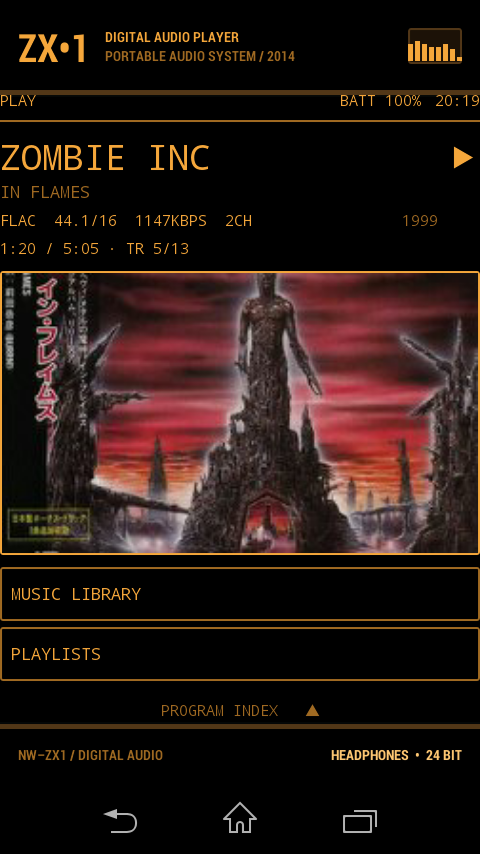
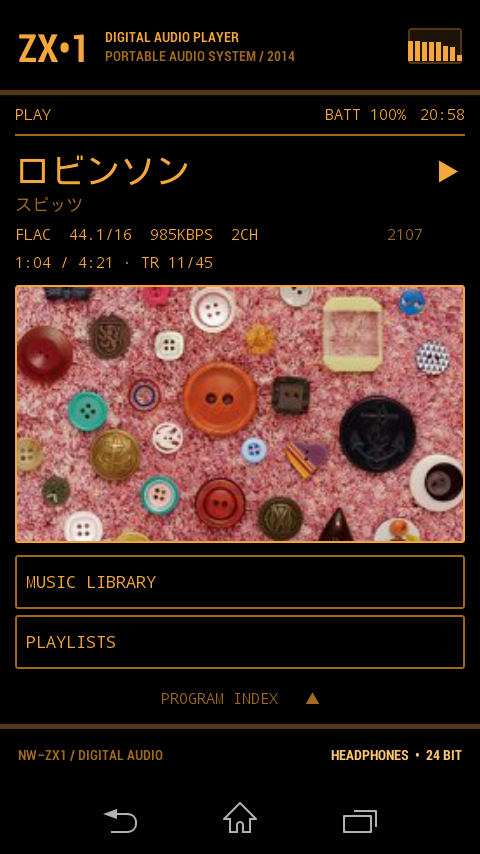
Keep the glass inset in Tube Amp, which setBackground was discarding
View.setBackgroundDrawable adopts a background's padding as the view's
own, and LayerDrawable.getPadding returns true unconditionally - whatever
its layers actually hold. lcd_frame builds its whole bezel from layer
insets, which are not padding, so the frame reported zero and was
believed.

Inflating never noticed: View(Context, AttributeSet) sets the background
first and applies the android:padding* attributes after it. But TUBE AMP
arrives later, from applySkin() on an already-inflated view, with nothing
behind it to restore the inset the layout asked for - so every
frame-backed panel lost its 10-18dp and sat flush against the bezel.

On the home glass the art panel is the weighted element, so it swelled
into the freed space while the status row and soft-keys slid out of
alignment, which read as an artwork-sizing bug rather than a padding one.
Measured against the LCD reference, the panel now returns to y 285/557
and x 15/465 exactly, and the status row, soft-keys and latch land back
on their LCD coordinates.

Fix is one LayerDrawable subclass that declines to report padding, so it
stays where both styles agree it belongs - the layout. Device-verified on
firmware 1.13 across all five screens; the LCD path is untouched, since
every frameBackground() call site sits behind an isLcd() early return.

Retakes the Tube Amp home screenshot on the same track as the LCD one.

diff --git a/app/src/main/java/com/github/postapczuk/lalauncher/Skin.java b/app/src/main/java/com/github/postapczuk/lalauncher/Skin.java
@@ -153,10 +153,44 @@ final class Skin {
         GradientDrawable glassPane = new GradientDrawable();
         glassPane.setColor(glass);
         glassPane.setStroke(dp(1), 0xFF050706);
-        LayerDrawable frame = new LayerDrawable(new Drawable[]{bezel, glassPane});
+        LayerDrawable frame = new Frame(new Drawable[]{bezel, glassPane});
         frame.setLayerInset(0, -dp(4), 0, -dp(4), 0);
         frame.setLayerInset(1, -dp(1), dp(3), -dp(1), dp(3));
         return frame;
+    }
+
+    /**
+     * The frame, declining to dictate padding.
+     *
+     * <p>{@code View.setBackgroundDrawable} adopts a background's padding as
+     * the view's own - {@code if (background.getPadding(rect))
+     * setPadding(...)} - and {@link LayerDrawable#getPadding} answers
+     * <em>true</em> unconditionally, whatever the layers actually hold. Ours
+     * hold nothing: {@code lcd_frame}'s bezel is built from layer
+     * <em>insets</em>, which are not padding, so the frame reports a padding
+     * of zero and means it. Inflating the LCD style never notices, because
+     * {@code View(Context, AttributeSet)} applies the {@code android:padding}
+     * attributes after the background and so overwrites that zero - but TUBE
+     * AMP arrives later, from {@code applySkin()}, with nothing behind it to
+     * restore the glass inset the layout asked for. The whole screen then
+     * sits flush against the bezel: the status row and soft-keys lose their
+     * margins and the art panel swells into the space (device-verified on
+     * the home glass, and every frame-backed panel on the other four screens
+     * carries the same 10-18dp inset).
+     *
+     * <p>Returning false leaves the view's padding to the layout, which is
+     * where both styles agree it belongs.
+     */
+    private static final class Frame extends LayerDrawable {
+        Frame(Drawable[] layers) {
+            super(layers);
+        }
+
+        @Override
+        public boolean getPadding(android.graphics.Rect padding) {
+            padding.set(0, 0, 0, 0);
+            return false;
+        }
     }
 
     /** res/drawable/lcd_soft_key.xml: stroked key, ink-solid when pressed. */

diff --git a/CLAUDE.md b/CLAUDE.md
@@ -44,7 +44,7 @@ Derived from [Light Android Launcher](https://github.com/light-launcher/Light-An
 | [InstalledAppsActivity.java](app/src/main/java/com/github/postapczuk/lalauncher/InstalledAppsActivity.java) | "PROGRAM INDEX": full app list with filter search, tap to launch, long-press for app info; hosts the drawn gear that opens `SettingsActivity`. |
 | [SettingsActivity.java](app/src/main/java/com/github/postapczuk/lalauncher/SettingsActivity.java) | The SETTINGS screen: three numbered rows (STYLE, ARTWORK STYLE, INFO SCREEN); a tap cycles the value and persists it immediately; a style change `recreate()`s in place, and every other screen reconciles on resume. Switching the info window to CLOCK also tells a running analysis pass to yield (`SpectrumAnalyzerService.yieldRunningPass`) — CLOCK means no spectrum work at all. |
 | [LauncherSettings.java](app/src/main/java/com/github/postapczuk/lalauncher/LauncherSettings.java) | SharedPreferences store for the three settings (style: LCD / TUBE AMP; artwork: GREYSCALE / GAMEBOY / FULL COLOR; info window: SPECTRUM / CLOCK), clamped so unknown values degrade to defaults. |
-| [Skin.java](app/src/main/java/com/github/postapczuk/lalauncher/Skin.java) | The resolved style: semantic palette (chassis/glass/ink plus artDark/artLight tone endpoints) and code-built replicas of every LCD drawable/selector for TUBE AMP. On LCD every tint helper is a no-op — the proven XML resources are never rebuilt; API 16 drawables can't take theme attributes, hence runtime re-tinting. Also owns the resume-time reconciliation every screen calls (`restyleIfChanged`): the re-inflate is **posted**, never called inline from `onResume` — an inline `recreate()` there relaunches into an activity the framework pauses again the instant it has resumed, leaving the screen visible and touchable but frozen with every timer, poll and receiver torn down (findings "recreate() from onResume"). |
+| [Skin.java](app/src/main/java/com/github/postapczuk/lalauncher/Skin.java) | The resolved style: semantic palette (chassis/glass/ink plus artDark/artLight tone endpoints) and code-built replicas of every LCD drawable/selector for TUBE AMP. On LCD every tint helper is a no-op — the proven XML resources are never rebuilt; API 16 drawables can't take theme attributes, hence runtime re-tinting. Also owns the resume-time reconciliation every screen calls (`restyleIfChanged`): the re-inflate is **posted**, never called inline from `onResume` — an inline `recreate()` there relaunches into an activity the framework pauses again the instant it has resumed, leaving the screen visible and touchable but frozen with every timer, poll and receiver torn down (findings "recreate() from onResume"). The frame is a `LayerDrawable` subclass that reports **no** padding: `setBackground` adopts a background's padding as the view's own and `LayerDrawable.getPadding` always claims to have some, which silently zeroed the glass inset every layout asks for — only in TUBE, because inflate applies `android:padding*` after the background but `applySkin()` runs later (findings "setBackground takes the view's padding with it"). |
 | [TransportGlyphView.java](app/src/main/java/com/github/postapczuk/lalauncher/TransportGlyphView.java) | The title-line transport glyph. PLAY/STOP stay the proven font glyphs (`▶`/`■`); PAUSE keeps `■` as an invisible metrics donor and draws two solid ink rectangles in its box — same baseline and advance, no font-coverage gamble. |
 | [GearView.java](app/src/main/java/com/github/postapczuk/lalauncher/GearView.java) | The drawn settings gear (ring + eight square-cut teeth) — the interface's one sanctioned icon; U+2699 is unreliable in the firmware's fonts. |
 | [SonyWalkmanContract.java](app/src/main/java/com/github/postapczuk/lalauncher/SonyWalkmanContract.java) | Every Sony firmware package/activity/service/action name, binder descriptor, transaction code, PlayState ordinal, Genie URI/column/projection, codec enum, and list tag. Device-specific strings go here, never inline elsewhere. |

diff --git a/docs/firmware-findings.md b/docs/firmware-findings.md
@@ -821,6 +821,52 @@ Corollary for debugging: **a screen-off device produces the same picture**
 last drawn frame. Check `dumpsys window | grep mScreenOnFully` before
 concluding anything from a screenshot.
 
+## `setBackground` takes the view's padding with it (API 16)
+
+Device-verified 2026-08-06 on firmware 1.13. `View.setBackgroundDrawable`
+adopts the new background's padding as the view's own:
+
+```java
+if (background.getPadding(padding)) {
+    setPadding(padding.left, padding.top, padding.right, padding.bottom);
+}
+```
+
+and **`LayerDrawable.getPadding` returns `true` unconditionally**, whatever
+its layers actually hold — the method sums the children's padding, then
+returns `true` regardless of the total. Layer *insets* are not padding, so
+`lcd_frame` (whose whole bezel is built from insets) reports a padding of
+zero and is believed.
+
+Nothing goes wrong at inflate time, which is why the LCD style never showed
+it: `View(Context, AttributeSet)` sets the background first and applies the
+`android:padding*` attributes afterwards, so the attribute wins. TUBE AMP
+arrives later — `applySkin()` calls `setBackground(skin.frameBackground())`
+on an already-inflated view — with nothing behind it to restore the inset
+the layout asked for.
+
+Measured on the home glass, `lcd_zone`'s `10/9/10/8dp` going to zero
+(hdpi, density 1.5):
+
+| element | LCD | TUBE (bug) | TUBE (fixed) |
+|---|---|---|---|
+| art panel top / bottom | y 285 / 557 | y 271 / 569 | y 285 / 557 |
+| art panel left border | x 15 | flush to 0 | x 15 |
+| status row ink | x 16–463 | x 0–479 | x 16–462 |
+
+The art panel absorbs the freed vertical space because it is the weighted
+element, so the visible symptom is a *bigger cover* with the status row and
+soft-keys pushed out of alignment — which reads as an artwork-sizing bug
+rather than a padding one. Every frame-backed panel on the other four
+screens carries the same 10–18dp inset and lost it identically.
+
+**Fix:** `Skin.Frame`, a `LayerDrawable` subclass whose `getPadding` returns
+false, so padding stays where both styles agree it belongs — the layout.
+Any future runtime `setBackground` of a multi-layer drawable needs the same
+care; single-shape backgrounds are safe (`GradientDrawable.getPadding`
+returns false without a `<padding>` tag, and `DrawableContainer` returns
+`(l|t|r|b) != 0`, i.e. false for all-zero children).
+
 ## Misc verified facts
 
 - wm2 activity table exports `ACTION_START_TOP`, `ACTION_START_DASHBOARD`,
